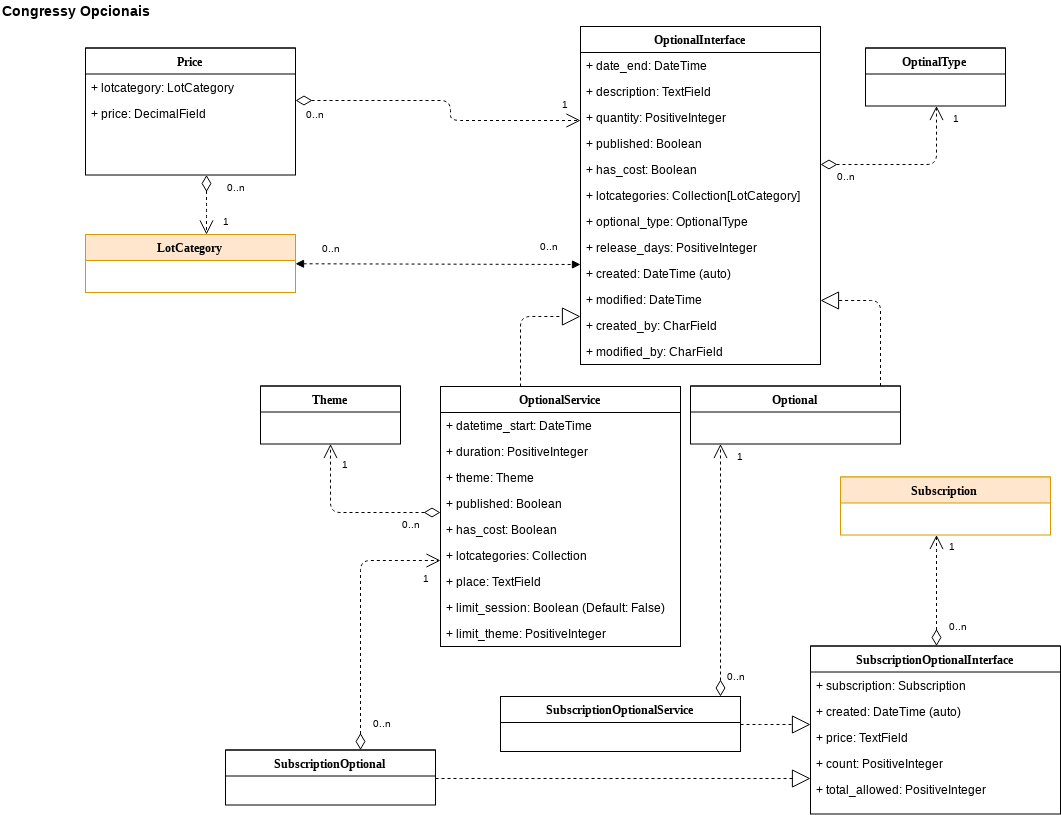
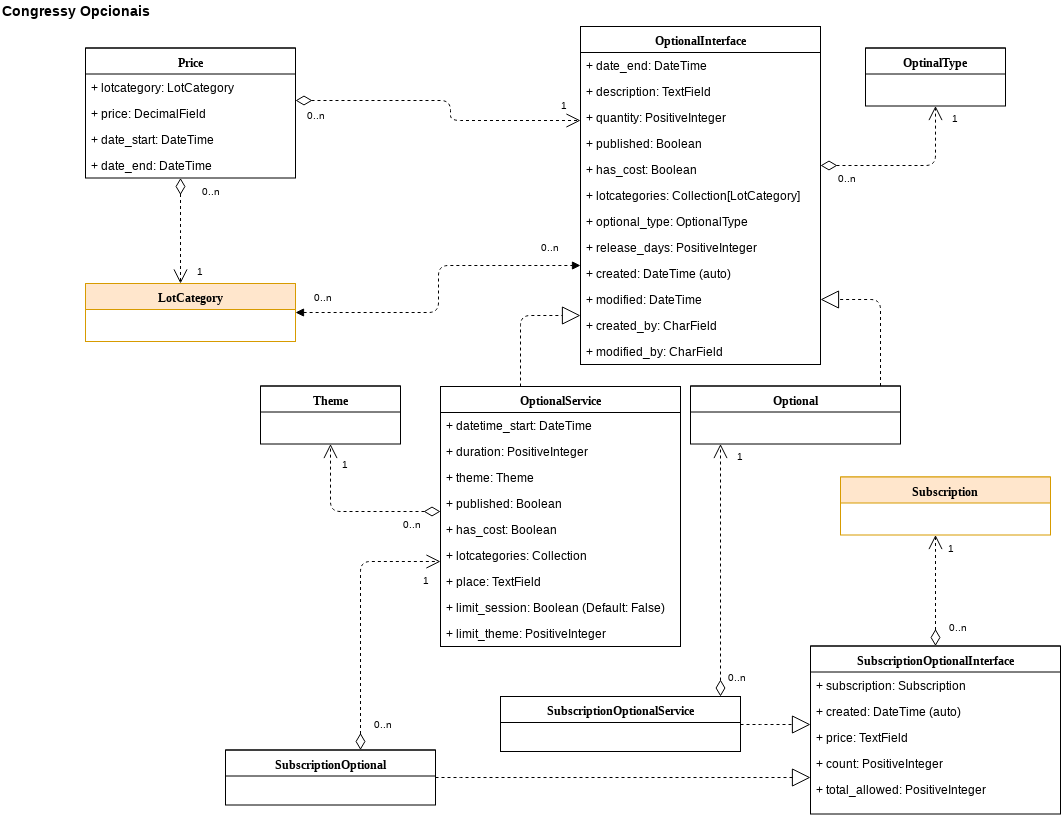
Addon: atualizando domínio

diff --git a/addon/migrations/0001_initial.py b/addon/migrations/0001_initial.py
@@ -1,5 +1,5 @@
 # -*- coding: utf-8 -*-
-# Generated by Django 1.11 on 2018-04-23 11:01
+# Generated by Django 1.11 on 2018-04-23 16:49
 from __future__ import unicode_literals
 
 import base.models
@@ -20,6 +20,7 @@ class Migration(migrations.Migration):
             name='OptionalProduct',
             fields=[
                 ('id', models.AutoField(auto_created=True, primary_key=True, serialize=False, verbose_name='ID')),
+                ('name', models.CharField(max_length=255, verbose_name='nome')),
                 ('date_end', models.DateTimeField(verbose_name='data final')),
                 ('description', models.TextField(verbose_name='descrição')),
                 ('quantity', models.PositiveIntegerField(verbose_name='quantidade')),
@@ -40,6 +41,7 @@ class Migration(migrations.Migration):
             name='OptionalService',
             fields=[
                 ('id', models.AutoField(auto_created=True, primary_key=True, serialize=False, verbose_name='ID')),
+                ('name', models.CharField(max_length=255, verbose_name='nome')),
                 ('date_end', models.DateTimeField(verbose_name='data final')),
                 ('description', models.TextField(verbose_name='descrição')),
                 ('quantity', models.PositiveIntegerField(verbose_name='quantidade')),
@@ -67,13 +69,33 @@ class Migration(migrations.Migration):
             bases=(base.models.EntityMixin, models.Model),
         ),
         migrations.CreateModel(
-            name='Price',
+            name='ProductPrice',
             fields=[
                 ('id', models.AutoField(auto_created=True, primary_key=True, serialize=False, verbose_name='ID')),
+                ('date_start', models.DateTimeField(verbose_name='data inicial')),
+                ('date_end', models.DateTimeField(verbose_name='data final')),
                 ('price', models.DecimalField(decimal_places=2, max_digits=10, verbose_name='preço')),
-                ('release_days', models.PositiveIntegerField(help_text='Número de dias para liberar as vagas de opcionais.', verbose_name='dias para liberação')),
-                ('lot_category', models.ForeignKey(on_delete=django.db.models.deletion.DO_NOTHING, related_name='prices', to='gatheros_subscription.LotCategory')),
+                ('lot_category', models.ForeignKey(on_delete=django.db.models.deletion.DO_NOTHING, related_name='productprice_prices', to='gatheros_subscription.LotCategory')),
+                ('optional_product', models.ForeignKey(on_delete=django.db.models.deletion.CASCADE, related_name='prices', to='addon.OptionalProduct')),
             ],
+            options={
+                'abstract': False,
+            },
+            bases=(base.models.EntityMixin, models.Model),
+        ),
+        migrations.CreateModel(
+            name='ServicePrice',
+            fields=[
+                ('id', models.AutoField(auto_created=True, primary_key=True, serialize=False, verbose_name='ID')),
+                ('date_start', models.DateTimeField(verbose_name='data inicial')),
+                ('date_end', models.DateTimeField(verbose_name='data final')),
+                ('price', models.DecimalField(decimal_places=2, max_digits=10, verbose_name='preço')),
+                ('lot_category', models.ForeignKey(on_delete=django.db.models.deletion.DO_NOTHING, related_name='serviceprice_prices', to='gatheros_subscription.LotCategory')),
+                ('optional_service', models.ForeignKey(on_delete=django.db.models.deletion.CASCADE, related_name='prices', to='addon.OptionalService')),
+            ],
+            options={
+                'abstract': False,
+            },
             bases=(base.models.EntityMixin, models.Model),
         ),
         migrations.CreateModel(

diff --git a/addon/models/optional.py b/addon/models/optional.py
@@ -1,5 +1,7 @@
+# pylint: disable=W5101
+
 """
-    Representação da interface de opcionais(add ons)
+    Representação do serviços de opcional(add ons)
 """
 
 from django.db import models
@@ -7,11 +9,25 @@ from django.db import models
 from base.models import EntityMixin
 from gatheros_subscription.models import LotCategory
 from .optional_type import OptionalType
+from .theme import Theme
 
 
 class AbstractOptional(EntityMixin, models.Model):
+    """
+        Opcional é um item adicional (add-on) à inscrição de um evento que
+        será de um *produto* ou *serviço*.
+
+        Opcionais permitem que possam adquirir produtos/serviços juntamente com
+        a inscrição, separando a compra, pois a inscrição em sua venda própria
+        e separada.
+    """
     class Meta:
         abstract = True
+
+    name = models.CharField(
+        max_length=255,
+        verbose_name="nome",
+    )
 
     date_end = models.DateTimeField(
         verbose_name="data final",
@@ -70,4 +86,34 @@ class AbstractOptional(EntityMixin, models.Model):
         blank=True,
         max_length=255,
         verbose_name="modificado por",
+    )
+
+
+class OptionalProduct(AbstractOptional):
+    """
+        Opcional de produto é um adicional de produto a ser comprado no ato da
+        inscrição de um evento. Exemplo: camiseta, caneca, kit, dentre outros.
+    """
+    def __str__(self):
+        return self.name
+
+
+class OptionalService(AbstractOptional):
+    """
+        Opcional de Serviço é um serviço a ser adquirido no ato da inscrição
+        de um evento. Exemplo: curso, workshop, treinamento, dentre outros.
+    """
+    start_on = models.DateTimeField(
+        verbose_name="data de inicio",
+    )
+
+    duration = models.PositiveIntegerField(
+        verbose_name="duração",
+    )
+
+    theme = models.ForeignKey(
+        Theme,
+        on_delete=models.PROTECT,
+        verbose_name="themas",
+        related_name="services",
     )

diff --git a/addon/models/subscription_optional.py b/addon/models/subscription_optional.py
@@ -1,0 +1,70 @@
+# pylint: disable=W5101
+
+"""
+    Representação dos opcionais(add ons) de inscrições(subscriptions)
+"""
+
+from django.db import models
+
+from base.models import EntityMixin
+from gatheros_subscription.models import Subscription
+from .optional import OptionalProduct, OptionalService
+
+
+class AbstractSubscriptionOptional(EntityMixin, models.Model):
+    """
+        Vínculo de uma inscrição com um opcional, registrando,
+        redundantemente, informações da Opcional informada para fins de
+        auditoria.
+    """
+    class Meta:
+        abstract = True
+
+    subscription = models.ForeignKey(
+        Subscription,
+        on_delete=models.CASCADE,
+        related_name='%(class)s_optionals',
+        verbose_name='inscrição',
+    )
+    created = models.DateTimeField(
+        auto_now_add=True,
+        verbose_name="data de criação",
+    )
+    price = models.DecimalField(
+        verbose_name='preço',
+        decimal_places=2,
+        max_digits=10,
+    )
+
+    count = models.PositiveIntegerField(
+        verbose_name="quantidade até agora",
+        default=0,
+        blank=True,
+    )
+    total_allowed = models.PositiveIntegerField(
+        verbose_name="total permitido",
+    )
+
+
+class SubscriptionOptionalProduct(AbstractSubscriptionOptional):
+    """
+        Vínculo de uma inscrição com um Opcional de Produto.
+    """
+    optional_product = models.ForeignKey(
+        OptionalProduct,
+        on_delete=models.CASCADE,
+        verbose_name='opcional de produto',
+        related_name='products'
+    )
+
+
+class SubscriptionOptionalService(AbstractSubscriptionOptional):
+    """
+        Vínculo de uma inscrição com um Opcional de Serviço.
+    """
+    optional_service = models.ForeignKey(
+        OptionalService,
+        on_delete=models.DO_NOTHING,
+        verbose_name='opcional de serviço',
+        related_name='services'
+    )

diff --git a/addon/models/price.py b/addon/models/price.py
@@ -8,14 +8,24 @@ from django.db import models
 
 from base.models import EntityMixin
 from gatheros_subscription.models import LotCategory
+from .optional import OptionalProduct, OptionalService
 
 
-class Price(EntityMixin, models.Model):
+class AbstractPrice(EntityMixin, models.Model):
+    """
+        Opcionais pagos possuem preços que passar a assumi
+    """
+    class Meta:
+        abstract = True
+
     lot_category = models.ForeignKey(
         LotCategory,
         on_delete=models.DO_NOTHING,
-        related_name='prices',
+        related_name='%(class)s_prices',
     )
+
+    date_start = models.DateTimeField(verbose_name='data inicial')
+    date_end = models.DateTimeField(verbose_name='data final')
 
     price = models.DecimalField(
         verbose_name='preço',
@@ -23,7 +33,18 @@ class Price(EntityMixin, models.Model):
         max_digits=10,
     )
 
-    release_days = models.PositiveIntegerField(
-        verbose_name='dias para liberação',
-        help_text='Número de dias para liberar as vagas de opcionais.'
+
+class ProductPrice(AbstractPrice):
+    optional_product = models.ForeignKey(
+        OptionalProduct,
+        on_delete=models.CASCADE,
+        related_name='prices',
+    )
+
+
+class ServicePrice(AbstractPrice):
+    optional_service = models.ForeignKey(
+        OptionalService,
+        on_delete=models.CASCADE,
+        related_name='prices',
     )

diff --git a/addon/tests/test_managers.py b/addon/tests/test_managers.py
@@ -1,7 +1,7 @@
 """ Testes de managers do módulo de opcionais. """
 
 import decimal
-from datetime import datetime
+from datetime import datetime, timedelta
 
 import random
 
@@ -33,10 +33,14 @@ class ThemeManagerPersistenceTest(ManagerPersistenceTestCase):
 class PriceManagerPersistenceTest(ManagerPersistenceTestCase):
     """ Testes de persistência de dados: criação e edição."""
     manager_class = managers.PriceManager
-    required_fields = ('price', 'lot_category', 'release_days')
+    required_fields = (
+        'lot_category',
+        'date_start',
+        'date_end',
+        'price',
+    )
 
     data_edit_to = {
-        'release_days': 42,
         'price': decimal.Decimal(random.randrange(155, 389)) / 100,
     }
 
@@ -58,8 +62,13 @@ class PriceManagerPersistenceTest(ManagerPersistenceTestCase):
     def setUp(self):
 
         self.fake_factory = MockFactory()
+
+        date_start = datetime.now()
+        date_end = date_start + timedelta(days=15)
+
         self.data = {
-            'release_days': 1,
+            'date_start': date_start.strftime("%d/%m/%Y %H:%M"),
+            'date_end': date_end.strftime("%d/%m/%Y %H:%M"),
             'price': decimal.Decimal(random.randrange(155, 389)) / 100,
             'lot_category': self.fake_factory.fake_lot_category().pk,
         }

diff --git a/addon/models/__init__.py b/addon/models/__init__.py
@@ -1,10 +1,11 @@
 """
     Modelos(Schemas) ou representação das estrutura de persistencia de dados.
 """
-from .price import Price
 from .theme import Theme
 from .optional_type import OptionalType
-from .optional_product import OptionalProduct
-from .optional_service import OptionalService
-from .subscription_optional_product import SubscriptionOptionalProduct
-from .subscription_optional_service import SubscriptionOptionalService
+from .optional import OptionalProduct, OptionalService
+from .price import ProductPrice, ServicePrice
+from .subscription_optional import (
+    SubscriptionOptionalProduct,
+    SubscriptionOptionalService,
+)
